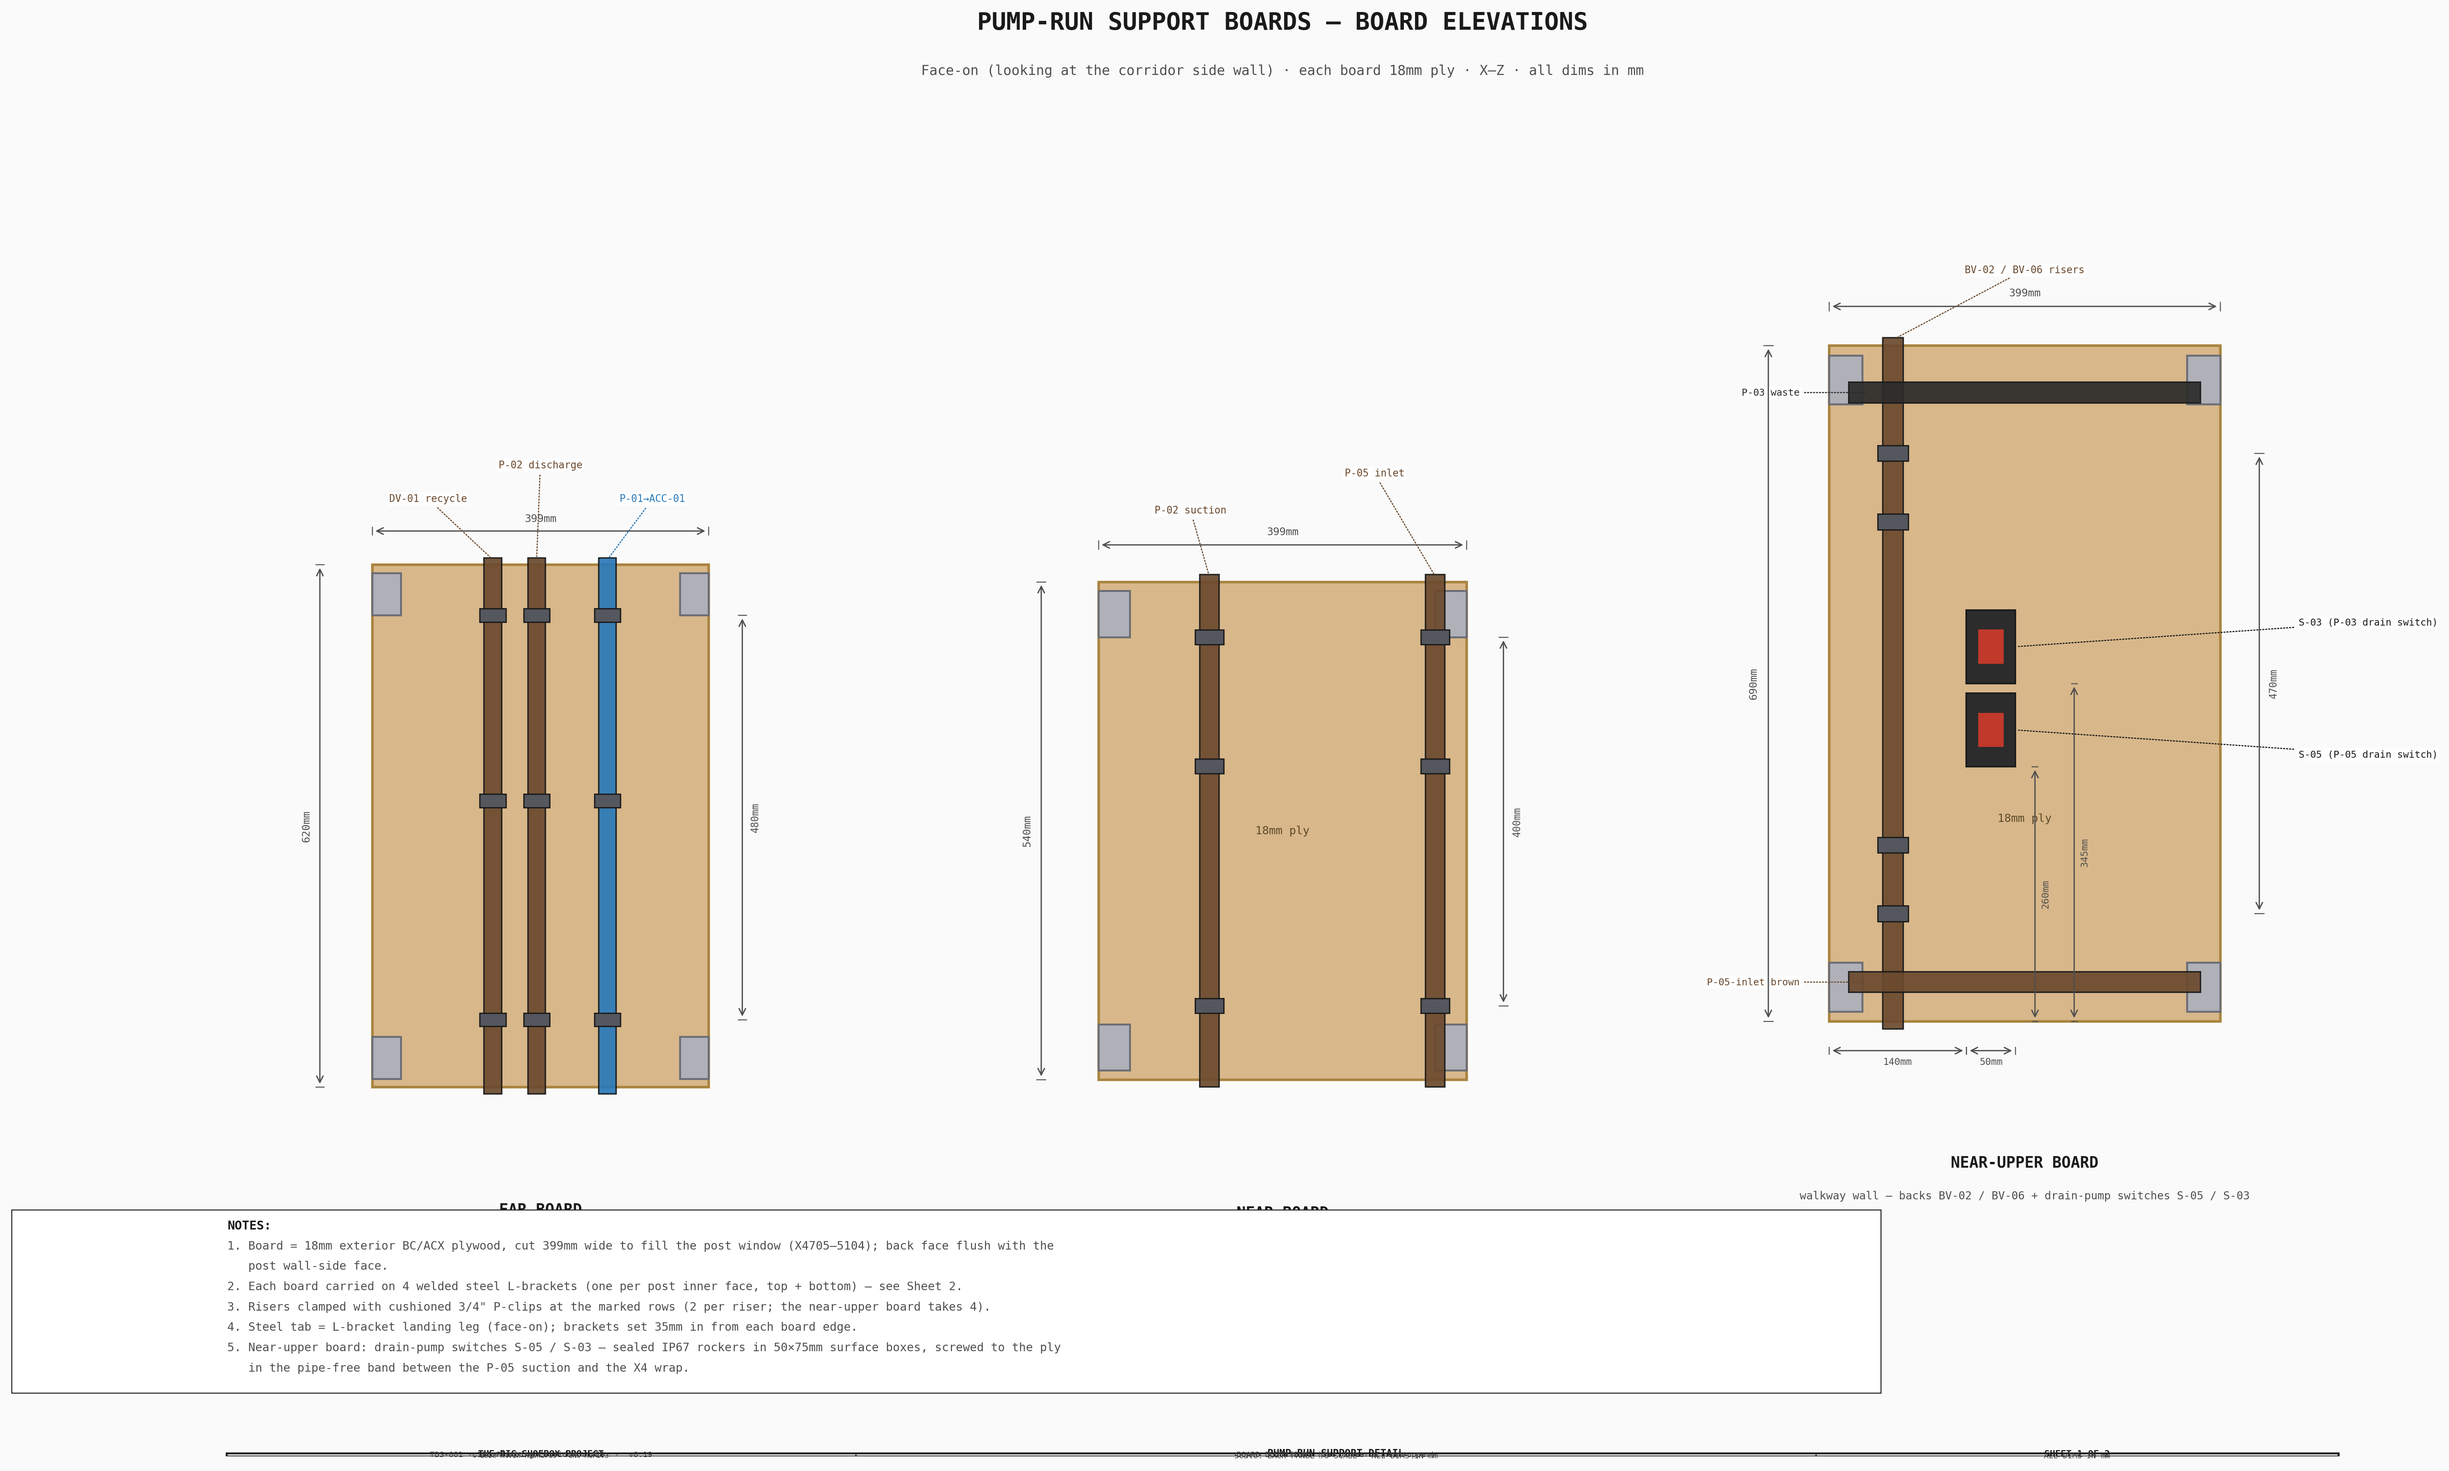
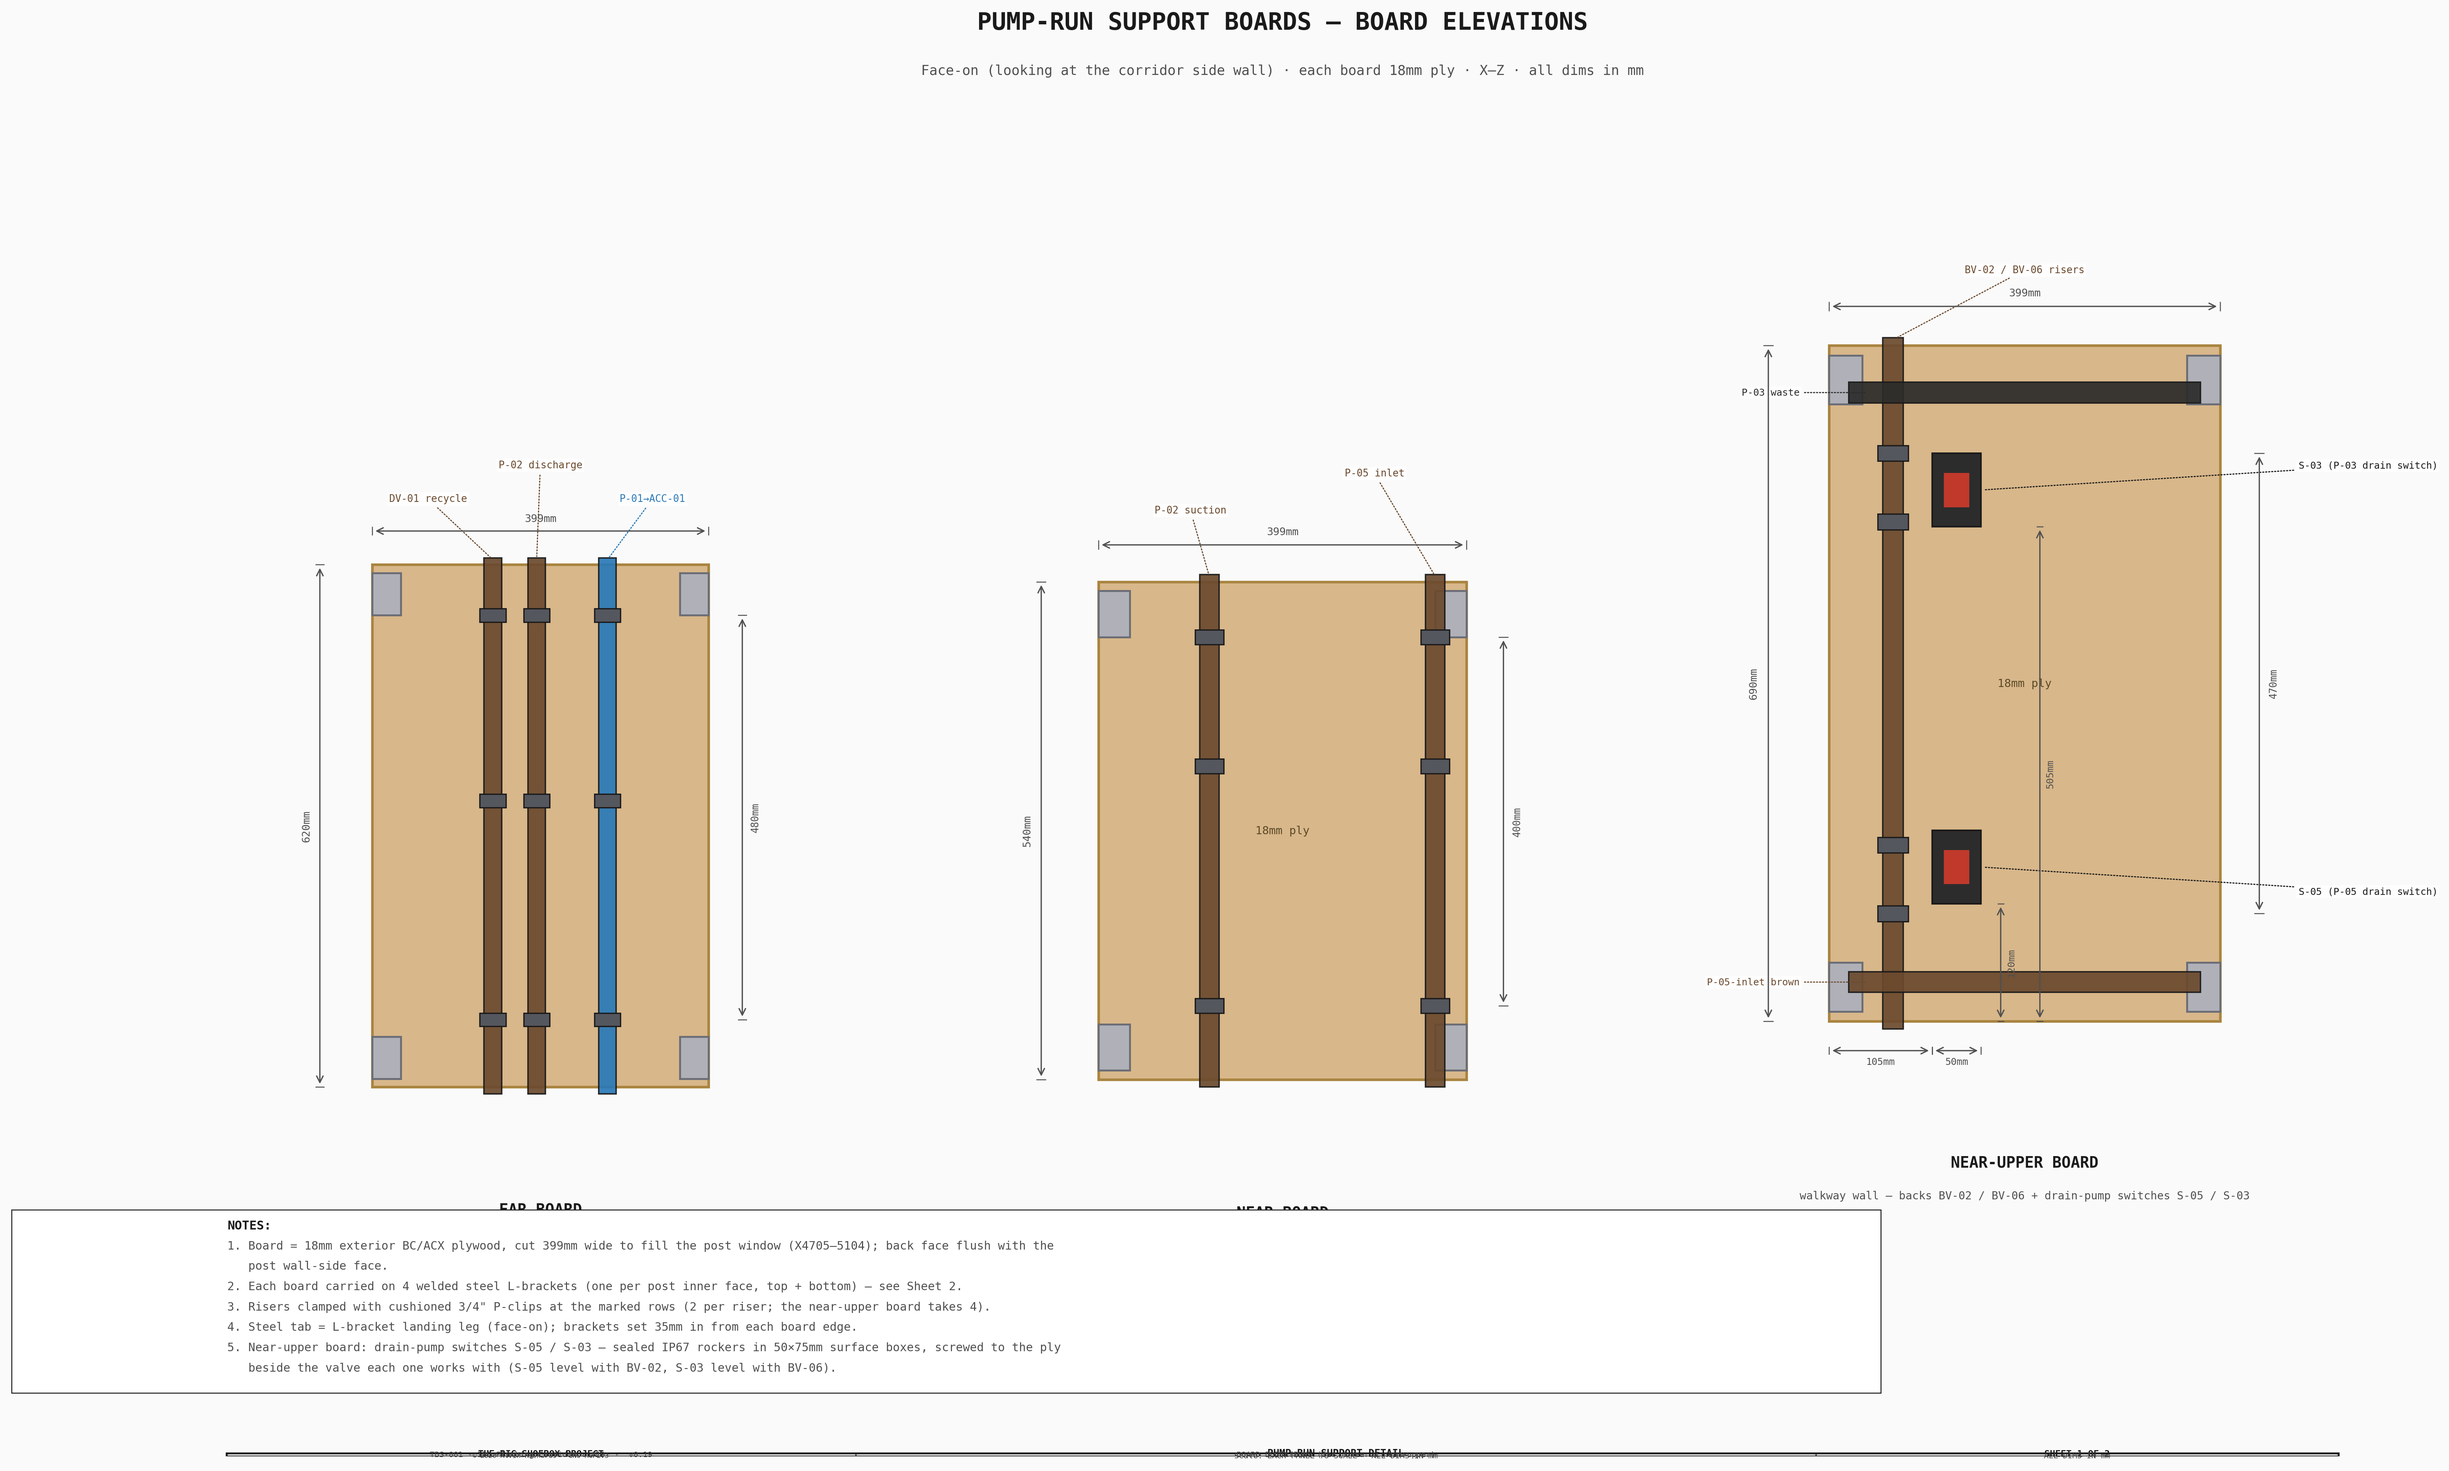
Drain-pump switches moved beside their valves (S-05 level with BV-02, S-03 with BV-06); S-03 line crosses under the X4 wrap; board blueprint updated

Changed region(s): [[0.7812, 0.4029, 0.8438, 0.5269], [0.7812, 0.5579, 0.8125, 0.6199], [0.7812, 0.31, 0.8125, 0.3719]]

diff --git a/src/models/generate_corridor_water_panel.py b/src/models/generate_corridor_water_panel.py
@@ -768,12 +768,13 @@ SB_RISER_YD_NEAR = PORT_TURN_YD_IN     # near risers, 5.5mm off the near board
 SB_FLUSH_OK = True                     # side-board clips: 5.5mm block (pump-column limit), not 18mm
 SPINE_FAR_FLUSH_OK = True              # spine +Yd face only: COL_R is fixed by the pump-port turn, so its clips get 6.5mm shims, not 18mm
 BV02_YD = PORT_TURN_YD_IN              # BV-02/BV-06 suction risers — also the 3D callout anchor
-# Drain-pump switches S-05 (P-05) / S-03 (P-03) — sealed rockers on the near-upper board, in the pipe-free
-# band between the P-05 suction run (Z1502) and the X4 wrap (Z1700); S-05 sits over BV-02's run, S-03 under BV-06's.
-DSW_X, DSW_W, DSW_D, DSW_H = 4845, 50, 45, 75          # box −X edge · width (X) · depth off the board (Yd) · height (Z)
-DSW_Z0 = {"P-05": 1520, "P-03": 1605}                  # box bottom Z per pump
-DSW_LINE_DZ, DSW_LOAD_DZ = {"P-05": 60, "P-03": 10}, {"P-05": 15, "P-03": 60}   # cable entry heights in each box
-DSW_CABLE_YD = 1085                                   # switch-cable lane, in front of the board, clear of the Yd1080 risers' band here
+# Drain-pump switches S-05 (P-05) / S-03 (P-03) — sealed rockers on the near-upper board, each beside its
+# suction valve (they operate together): +X of the BV riser, level with BV-02 / BV-06, clear of the 45° handles.
+DSW_X, DSW_W, DSW_D, DSW_H = 4810, 50, 45, 75          # box −X edge · width (X) · depth off the board (Yd) · height (Z)
+DSW_Z0 = {"P-05": 1380, "P-03": 1765}                  # box bottom Z — level with BV-02 (Z1417) / BV-06 (Z1792); S-03's load lands level with the P-03 tap
+DSW_LINE_DZ, DSW_LOAD_DZ = {"P-05": 65, "P-03": 10}, {"P-05": 10, "P-03": 65}   # cable entry heights in each box
+DSW_PANEL_Z = {"P-05": 1445, "P-03": 1615}             # where each line crosses the shirt + rear panel (S-03's runs under the X4 wrap at Z1700)
+DSW_CABLE_YD = 1085                                   # switch-cable lane, in front of the board
 DSW_CABLE_X = 5040                                    # vertical lane between the pump backs (≤5034) and the shirt face (5051.5)
 DSW_LOAD_YD = 1165                                    # load-lead vertical lane behind the pumps
 DSW_LINE_YD = {"P-05": CTR_Y + 20, "P-03": CTR_Y + 32}   # line-lead lanes off the dist block, clear of the feed drop at CTR_Y
@@ -840,16 +841,16 @@ SHIRT_HOLES = [(BVY_REAR, 1210, RPH),    # Blue #1 -> P-01 suction entry
                (COL_R, 1502, RPH),    # P-05 -> X3 end-wall port
                (SPINE_RISER_YD, 1700, RPH),    # X4 Waste (P-03) pickup
                (CTR_Y, 1030, CBH),   # Cct-C branch -> P-02 (power cable)
-               (DSW_LINE_YD["P-05"], DSW_Z0["P-05"] + DSW_LINE_DZ["P-05"], CBH),   # Cct-C line -> S-05
-               (DSW_LINE_YD["P-03"], DSW_Z0["P-03"] + DSW_LINE_DZ["P-03"], CBH),   # Cct-C line -> S-03
+               (DSW_LINE_YD["P-05"], DSW_PANEL_Z["P-05"], CBH),   # Cct-C line -> S-05
+               (DSW_LINE_YD["P-03"], DSW_PANEL_Z["P-03"], CBH),   # Cct-C line -> S-03
                (CTR_Y, 705, CBH)]    # Cct-C pump bus (P-01 elbow tap)
 REAR_HOLES = [(DV01_WASTE_YD, 235, RPH),      # DV-01 -> IBC-4 merge
               (ov.RWK_RIBBON_NOTCH_YDS[2], WASTE_PANEL_Z, RPH),   # DV-02 waste -> IBC-4
               (BVY_REAR, 1210, RPH),     # Blue #1 -> P-01 suction entry
               (COL_R, 1502, RPH),     # P-05 -> X3 end-wall port
               (COL_R, 1902, RPH),     # P-03 -> X4 end-wall port
-              (DSW_LINE_YD["P-05"], DSW_Z0["P-05"] + DSW_LINE_DZ["P-05"], CBH),   # Cct-C line -> S-05
-              (DSW_LINE_YD["P-03"], DSW_Z0["P-03"] + DSW_LINE_DZ["P-03"], CBH),   # Cct-C line -> S-03
+              (DSW_LINE_YD["P-05"], DSW_PANEL_Z["P-05"], CBH),   # Cct-C line -> S-05
+              (DSW_LINE_YD["P-03"], DSW_PANEL_Z["P-03"], CBH),   # Cct-C line -> S-03
               (CTR_Y, 705, CBH),      # Cct-C pump bus (P-01 elbow tap)
               (SPINE_RISER_YD, 1700, RPH),     # X4 Waste (P-03) pickup
               (CTR_Y, 1030, CBH)]    # Cct-C branch -> P-02

diff --git a/src/models/generate_pinhole_water_panel.py b/src/models/generate_pinhole_water_panel.py
@@ -682,12 +682,18 @@ def panel_power(include_switch=True, part="all"):
             zl = cp.DSW_Z0[pump] + cp.DSW_LINE_DZ[pump]
             zd = cp.DSW_Z0[pump] + cp.DSW_LOAD_DZ[pump]
             ztap = cp.PSTACK[pump] + 90
-            line = [(BKX, ly, zc + 45), (BKX, ly, zl), (cp.DSW_CABLE_X, ly, zl), (cp.DSW_CABLE_X, cp.DSW_CABLE_YD, zl), (sw_x, cp.DSW_CABLE_YD, zl)]
-            load = [(sw_x, cp.DSW_CABLE_YD, zd), (cp.DSW_CABLE_X, cp.DSW_CABLE_YD, zd), (cp.DSW_CABLE_X, cp.DSW_LOAD_YD, zd),
-                    (cp.DSW_CABLE_X, cp.DSW_LOAD_YD, ztap), (xin, cp.DSW_LOAD_YD, ztap)]
+            zp = cp.DSW_PANEL_Z[pump]
+            line = [(BKX, ly, zc + 45), (BKX, ly, zp), (cp.DSW_CABLE_X, ly, zp), (cp.DSW_CABLE_X, cp.DSW_CABLE_YD, zp)]
+            if zl != zp:
+                line.append((cp.DSW_CABLE_X, cp.DSW_CABLE_YD, zl))
+            line.append((sw_x, cp.DSW_CABLE_YD, zl))
+            load = [(sw_x, cp.DSW_CABLE_YD, zd), (cp.DSW_CABLE_X, cp.DSW_CABLE_YD, zd), (cp.DSW_CABLE_X, cp.DSW_LOAD_YD, zd)]
+            if ztap != zd:
+                load.append((cp.DSW_CABLE_X, cp.DSW_LOAD_YD, ztap))
+            load.append((xin, cp.DSW_LOAD_YD, ztap))
             p.append(draw.ruby_pipe_run(f"Cct C {pump} switch line (bus -> {pump.replace('P', 'S')})", line, cr, color=PWR))
             p.append(draw.ruby_pipe_run(f"Cct C {pump} switch load ({pump.replace('P', 'S')} -> {pump})", load, cr, color=PWR))
-            p.append(draw.ruby_clip_run(f"Cct C {pump} switch cables", [line[3], line[4]], spacing=60))
+            p.append(draw.ruby_clip_run(f"Cct C {pump} switch cables", line[-2:], spacing=60))
         # corridor branch tap: P-02 (in P-04's vacated slot)
         for label, key in (("P-02", "P-04"),):
             z = cp.PSTACK[key] + 90

diff --git a/src/generators/generate_support_detail.py b/src/generators/generate_support_detail.py
@@ -93,7 +93,7 @@ def draw_board(ax, spec):
     _rect(ax, X0, z0, BW, h, C_PLY, ec=C_PLY_E, lw=1.6, z=2)
     cx = (X0 + X1) / 2
     if not any(abs(r[0] - cx) < 60 for r in risers):   # skip the center label if a riser sits on it
-        ax.text(cx, z0 + h * (0.3 if switches else 0.5), "18mm ply", ha="center", va="center",
+        ax.text(cx, z0 + h / 2, "18mm ply", ha="center", va="center",
                 fontsize=7, color="#5C4A28", zorder=4, **FONT)
 
     # 4 L-brackets (steel tabs) at the post inner faces, top & bottom
@@ -173,7 +173,7 @@ def draw_sheet1():
         "2. Each board carried on 4 welded steel L-brackets (one per post inner face, top + bottom) — see Sheet 2.",
         "3. Risers clamped with cushioned 3/4\" P-clips at the marked rows (2 per riser; the near-upper board takes 4).",
         "4. Steel tab = L-bracket landing leg (face-on); brackets set 35mm in from each board edge.",
-        f"5. Near-upper board: drain-pump switches S-05 / S-03 — sealed IP67 rockers in {cp.DSW_W}×{cp.DSW_H}mm surface boxes, screwed to the ply in the pipe-free band between the P-05 suction and the X4 wrap.",
+        f"5. Near-upper board: drain-pump switches S-05 / S-03 — sealed IP67 rockers in {cp.DSW_W}×{cp.DSW_H}mm surface boxes, screwed to the ply beside the valve each one works with (S-05 level with BV-02, S-03 level with BV-06).",
     ], 0.0, 1.0, 0.15, fs=7.2, title_fs=7.6, width=1.0, wrap=120, font=FONT)
 
     ax_tb = fig.add_axes([0.04, 0.008, 0.92, 0.045])

diff --git a/RELEASE.md b/RELEASE.md
@@ -26,7 +26,7 @@ is no separate publish step to run afterward.
 
 ## [Unreleased]
 
-- **Drain-pump switches S-05 / S-03.** The 2-pole EP master switch energized all four corridor pumps during every wash, including the drain pumps P-05 / P-03, whose suction valves are closed then — so they could not build pressure, their pressure switches would never stop them, and C1's 15A fuse would carry three running pumps. Each drain pump now has a local sealed 1-pole rocker (S-05, S-03) on the corridor near-upper side board, in the pipe-free band beside BV-02 / BV-06, OFF except during a pump-out. 3D (water model: switches + rerouted + leads through drilled holes, interference-clean), Electrical Sheets 1/4/7, the near-upper board blueprint, parts/costing (+$20/$30/$40, SKU pending), Electrical §7.3, Plumbing §2.2 and the manual (setup check, valve matrix, pump-out, pack-down) updated. Plumbing §2.2 also corrected: the spray selector BV-05a — not the suction valves — chooses P-01 vs P-02, and C1's fuse covers one working pump while C2 carries P-04 alone.
+- **Drain-pump switches S-05 / S-03.** The 2-pole EP master switch energized all four corridor pumps during every wash, including the drain pumps P-05 / P-03, whose suction valves are closed then — so they could not build pressure, their pressure switches would never stop them, and C1's 15A fuse would carry three running pumps. Each drain pump now has a local sealed 1-pole rocker (S-05, S-03) on the corridor near-upper side board, each mounted level with and beside its suction valve (S-05 by BV-02, S-03 by BV-06) since they are operated together, OFF except during a pump-out. 3D (water model: switches + rerouted + leads through drilled holes, interference-clean), Electrical Sheets 1/4/7, the near-upper board blueprint, parts/costing (+$20/$30/$40, SKU pending), Electrical §7.3, Plumbing §2.2 and the manual (setup check, valve matrix, pump-out, pack-down) updated. Plumbing §2.2 also corrected: the spray selector BV-05a — not the suction valves — chooses P-01 vs P-02, and C1's fuse covers one working pump while C2 carries P-04 alone.
 - **Energy model: tote pump-out corrected.** `calculate_energy_budget.py` and Daily Energy §6 assumed each tote gravity-drained through a low port and the pump lifted only a ~120 L residual (~36 Wh per dump run). X3/X4 sit above the bottom-tier totes, so both are pumped out entirely: the volume is now the run's recovered water (622 L per collection tote, unchanged by the dichromate split) → ~115 Wh per dump run (~5% of a 3-print day), with full 1,000 L totes as the ceiling. Light and day-share figures are generated too.
 - **Plumbing Report: what/why pass + factual fixes.** DV-01 outputs to Brown IBC-3 (not Blue IBC-2); the filter-inlet reducer is on the DV-02 output (not P-02); P-05 shares the near-column IBC-3 tap; filter brackets are Pentair 244718; Blue manifold is PVC; the protrusion envelope covers only the corridor panel and states the real clearance to the film rail. Stale "still open" joint-convention items, design-history and price-archaeology asides removed; raw $ in the report 5 → 0 (ratchet lowered). Parts panel tags corrected (BV-03 corridor, SV-02 pinhole wall). §2 "Panel Specifications" (corridor panel only, all rows duplicated elsewhere) removed; panel mounting merged into one section covering both panels; sections renumbered with inbound links updated.
 - **Operating Manual valve references corrected.** The manual named valves that don't exist ("isolation valve V1" on the fill line, "VB1/VB2/VB3" on the Blue manifold) and mislabeled BV-06 as the chemistry tap (it is the P-03 waste-drain suction; the tap is BV-04). Every step now names the real valves: 0.1.2 sets the tote butterflies + BV-01/BV-03 open and BV-02/BV-04/BV-05b/BV-06 closed; the valve matrix lists all six BVs; TU.2 fills through CV-1 (controlled at the bowser); TU.3 opens/closes BV-02/BV-06 and the IBC-4 valve around a pump-out; the cooler fills from TAP-01 via BV-04. Also fixed: P-02 is the recycle-spray pump (not the filter feed — that is P-04), so the filter-change procedure isolates via P-04 + 3W-DV-02; the unverifiable "2.5–3.5 bar" check (no gauge in the design) became a spray-bar flow check. External ball valves at X1/X3/X4 rejected: BV-02/BV-06 + caps isolate the drains; a lockable port cover box is on TODO.
